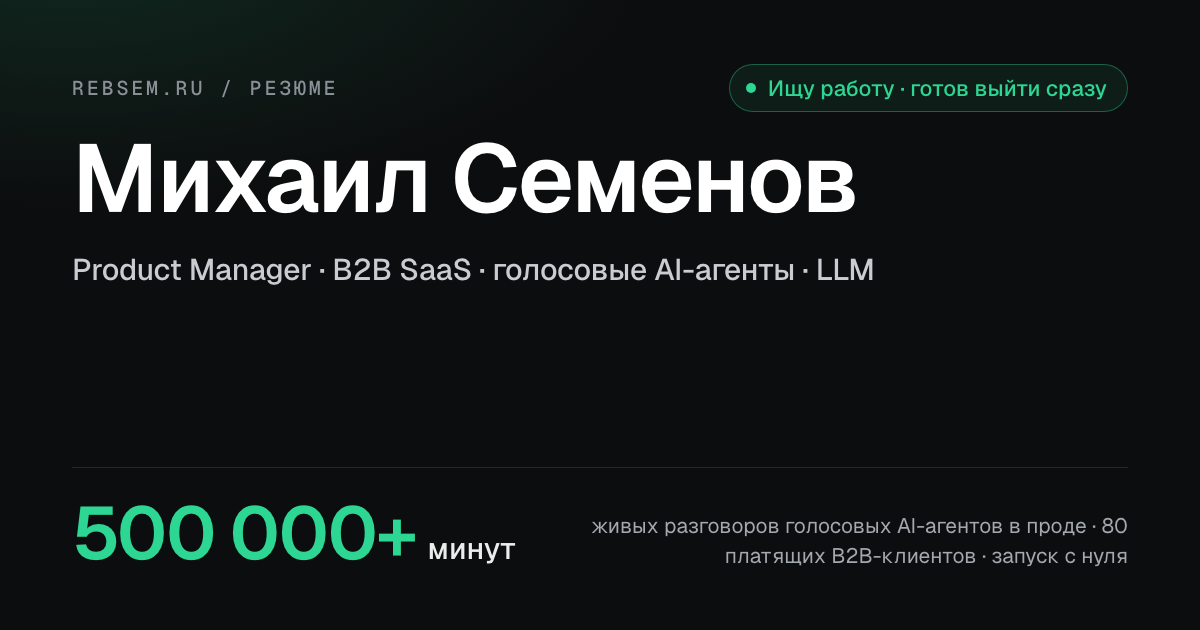
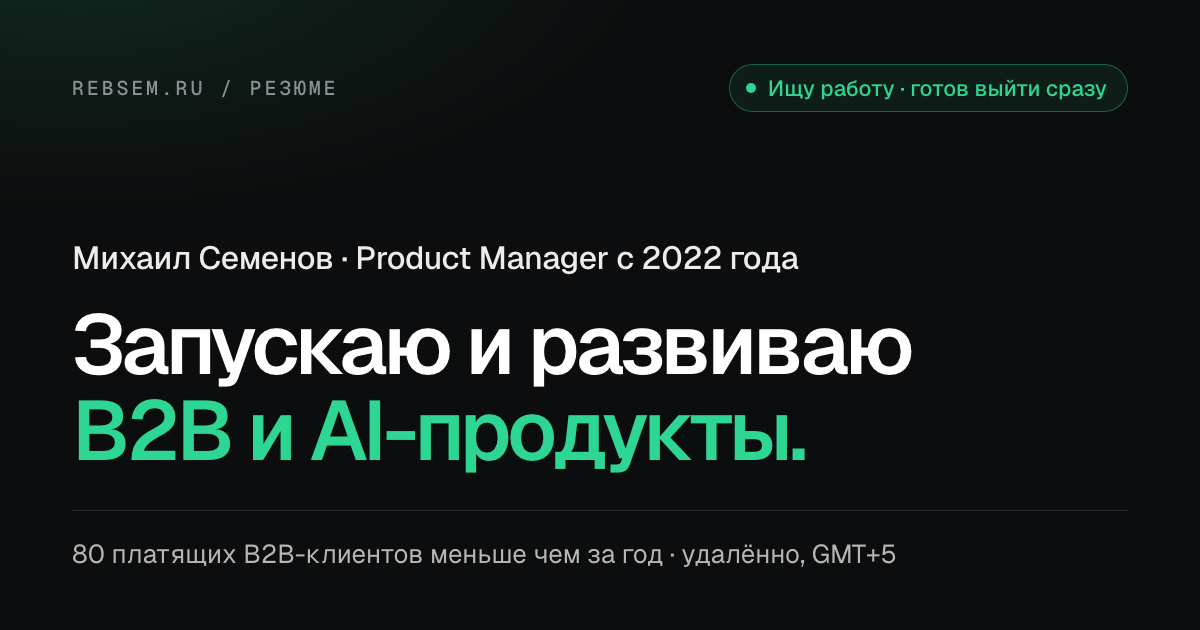
feat: link-preview cards in the language of the new home page
The cards still carried the old "500,000+ minutes" display number, the serif English name and the LLM role line, which contradicted the redesigned home page. They now repeat the home copy (name with tenure, two-line headline, status pill, one proof line), use Geist in both locales and carry a new OG_CARD_VERSION so preview caches refetch; docs/workflow.md gains the steps for refreshing the Telegram, LinkedIn and Facebook caches.

diff --git a/docs/workflow.md b/docs/workflow.md
@@ -60,3 +60,11 @@ The repository PR template already includes the required checklist.
 - confirm GitHub Pages deploy succeeds
 - move the issue to review or done depending on whether manual verification is still needed
 - if manual QA is required, leave a short note with the exact routes to check
+
+## 7. Refresh link previews
+
+Telegram, LinkedIn and Facebook (WhatsApp reads Facebook's cache) keep the preview they fetched for a page address. A new `?v=` on the card does not reach a cached address, so after a change to a link-preview card (`npm run og:build`, `OG_CARD_VERSION` in `src/layouts/Layout.astro`) or to a page's title or description, ask each service to fetch the page again. Do this once the Pages deploy from `main` has finished:
+
+1. Telegram: send each address to `@WebpageBot`: `https://rebsem.ru/`, `https://rebsem.ru/ru/`, `https://rebsem.ru/about/`, `https://rebsem.ru/ru/about/`, `https://rebsem.ru/cv/`, `https://rebsem.ru/ru/cv/`, and both Zvonobot case studies, `https://rebsem.ru/projects/zvonobot-ai-en/` and `https://rebsem.ru/ru/projects/zvonobot-ai-ru/`.
+2. LinkedIn: run the same addresses through the Post Inspector at `https://www.linkedin.com/post-inspector/` and inspect each one again.
+3. Facebook: run the same addresses through the Sharing Debugger at `https://developers.facebook.com/tools/debug/` and choose "Scrape again" for each one.
